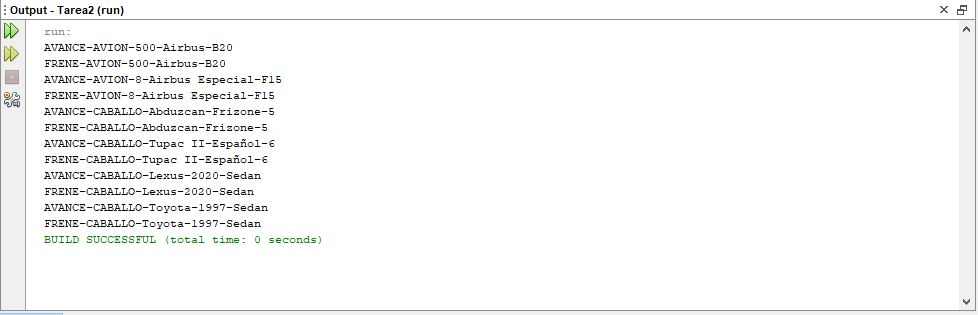
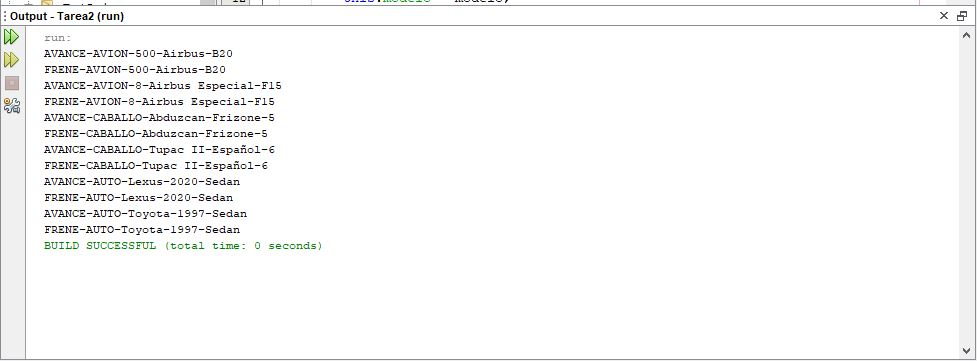
Tarea2

Changed region(s): [[0.0, 0.0, 1.0, 1.0]]

diff --git a/TAREA/TAREA2/CODIGO/Coche.java b/TAREA/TAREA2/CODIGO/Coche.java
@@ -14,13 +14,13 @@ public class Coche extends Transporte {
 
     @Override
     public void avanzar() {
-        System.out.println("AVANCE-CABALLO-"+this.getMarca()+"-"+this.getModelo()+
+        System.out.println("AVANCE-AUTO-"+this.getMarca()+"-"+this.getModelo()+
                 "-"+this.getTipoVehiculo());
     }
 
     @Override
     public void frenar() {
-        System.out.println("FRENE-CABALLO-"+this.getMarca()+"-"+this.getModelo()+
+        System.out.println("FRENE-AUTO-"+this.getMarca()+"-"+this.getModelo()+
                 "-"+this.getTipoVehiculo());
     }
 
